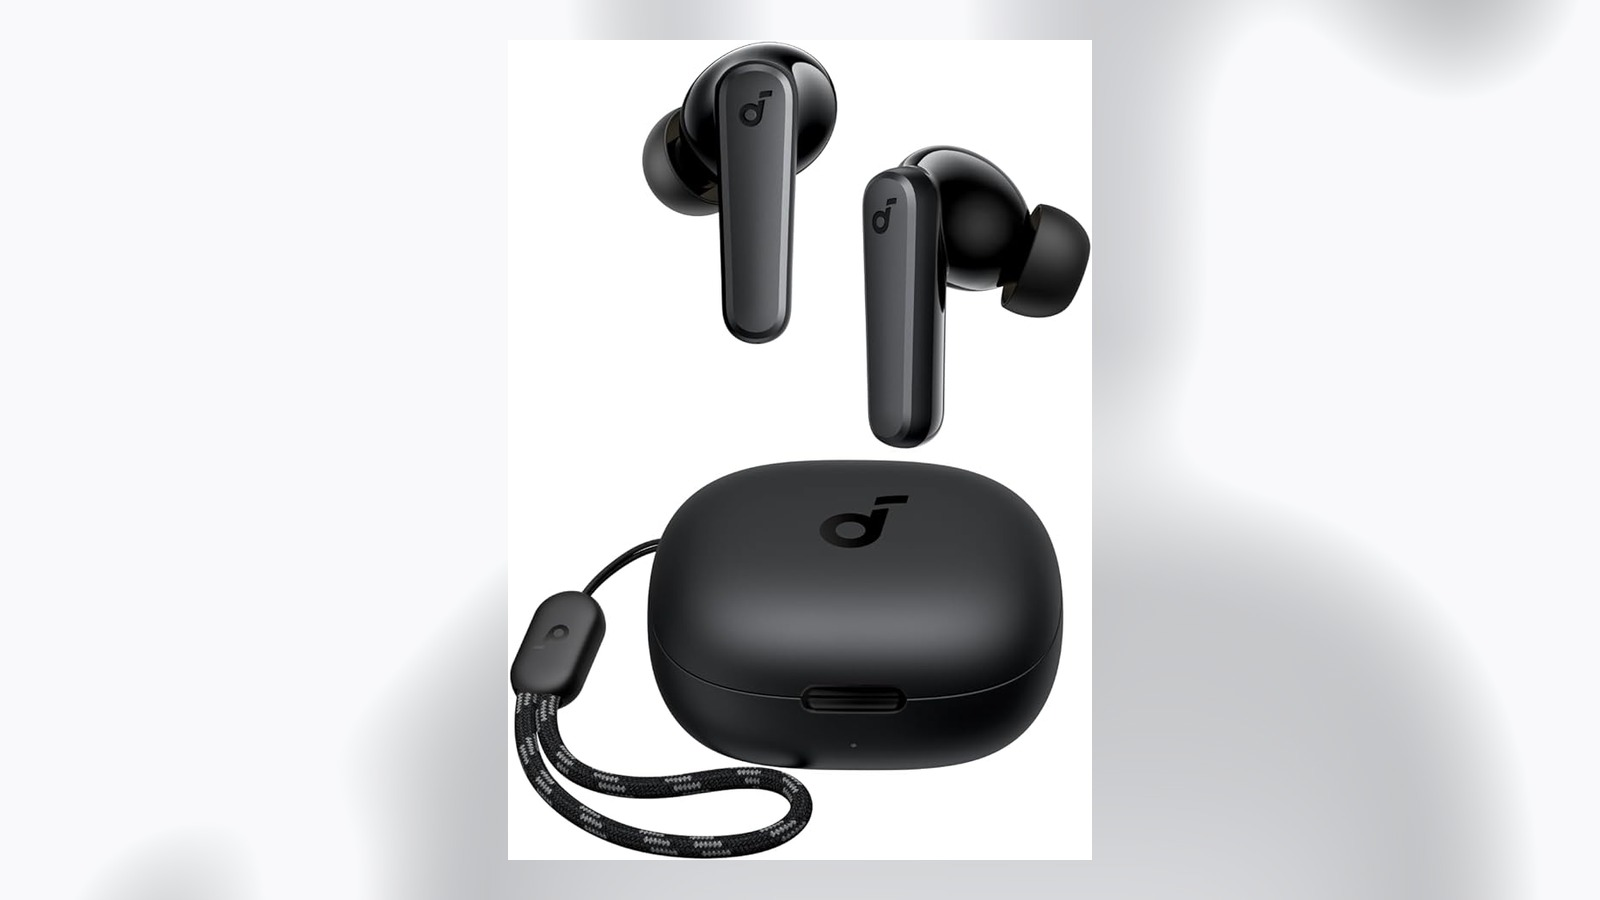
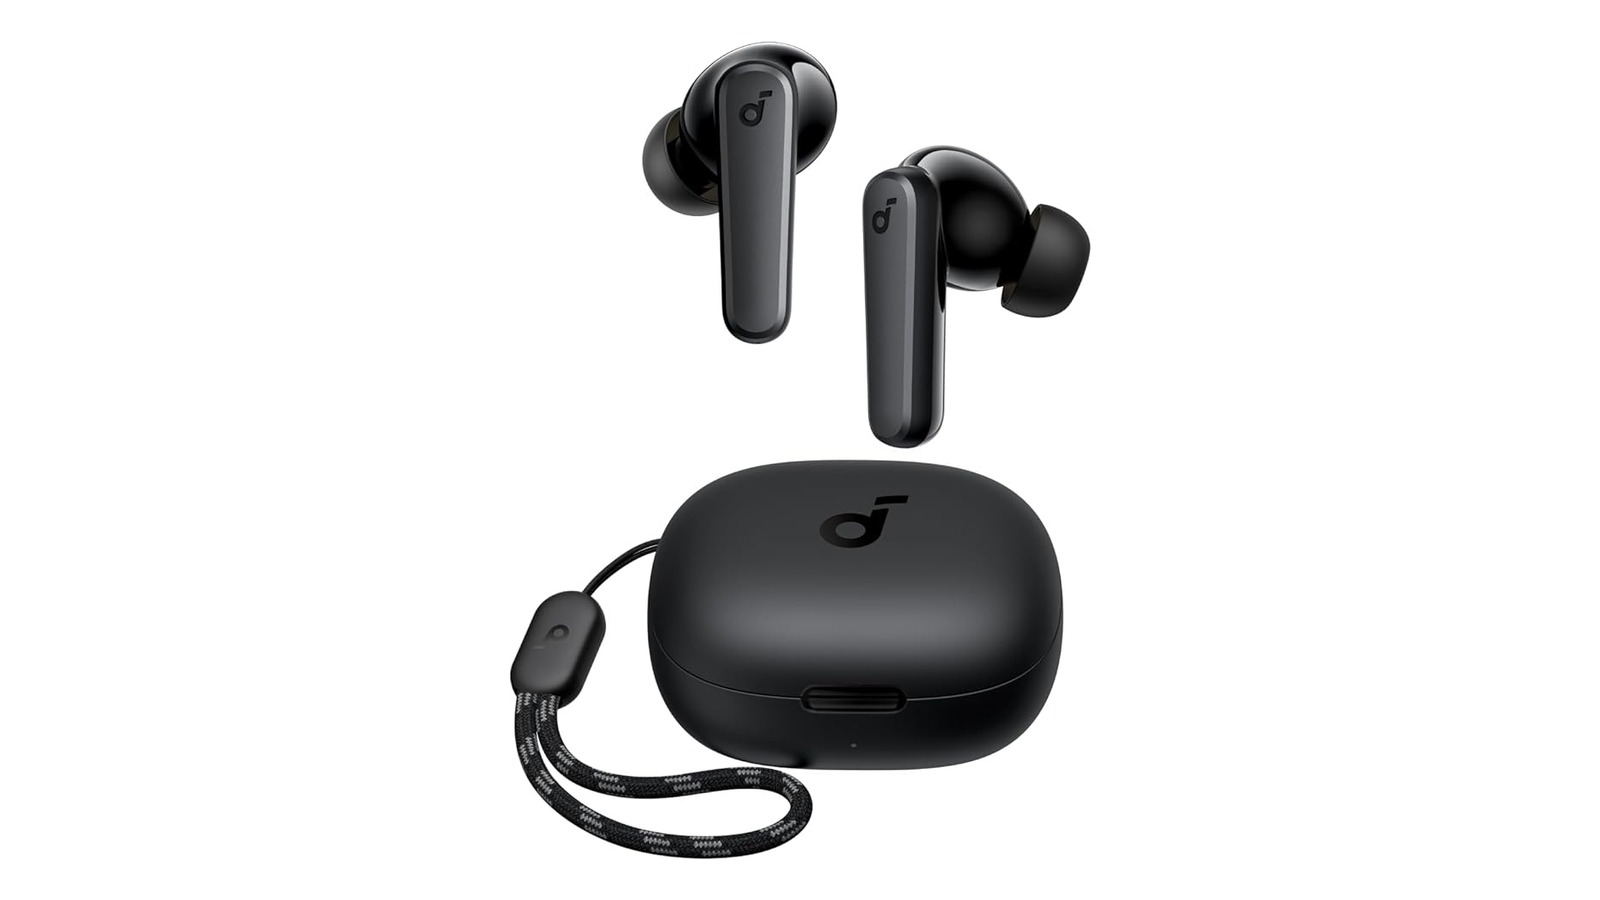
Preenche fundo de foto vertical com a cor real da própria foto
Troca a técnica de blur pela cor sólida de fundo amostrada da própria
foto (mediana dos pixels da borda, ignorando o produto que às vezes
encosta no canto). Fica idêntico ao fundo da foto original, sem efeito
de blur. Atualiza scripts/build-product-cover.mjs e a regra no
CLAUDE.md.

Claude-Session: https://claude.ai/code/session_01D7n5NzhdkvjWgyNrBSiPb1

diff --git a/CLAUDE.md b/CLAUDE.md
@@ -21,9 +21,12 @@ usada no projeto, sem custo e sem inventar nenhum pixel do produto):
 - **Produto único com foto só vertical** (o que deixa espaço vazio nas
   laterais da capa 16:9): rodar
   `node scripts/build-product-cover.mjs <foto-de-entrada> <arquivo-de-saida>`
-  antes de usar a foto como `coverImage`. O script preenche o fundo com uma
-  versão borrada e clara da própria foto (sem inventar nada) em vez de deixar
-  espaço vazio, e mantém o produto nítido e centralizado por cima.
+  antes de usar a foto como `coverImage`. O script amostra a cor real de
+  fundo da própria foto (mediana dos pixels da borda, pra não pegar o
+  produto por engano) e preenche o resto do quadro 16:9 com essa cor sólida,
+  em vez de blur ou espaço vazio, mantendo o produto nítido e centralizado
+  por cima. Sem blur: cor chapada igual à da foto original, sem inventar
+  nada.
 
 ## Deploy
 
